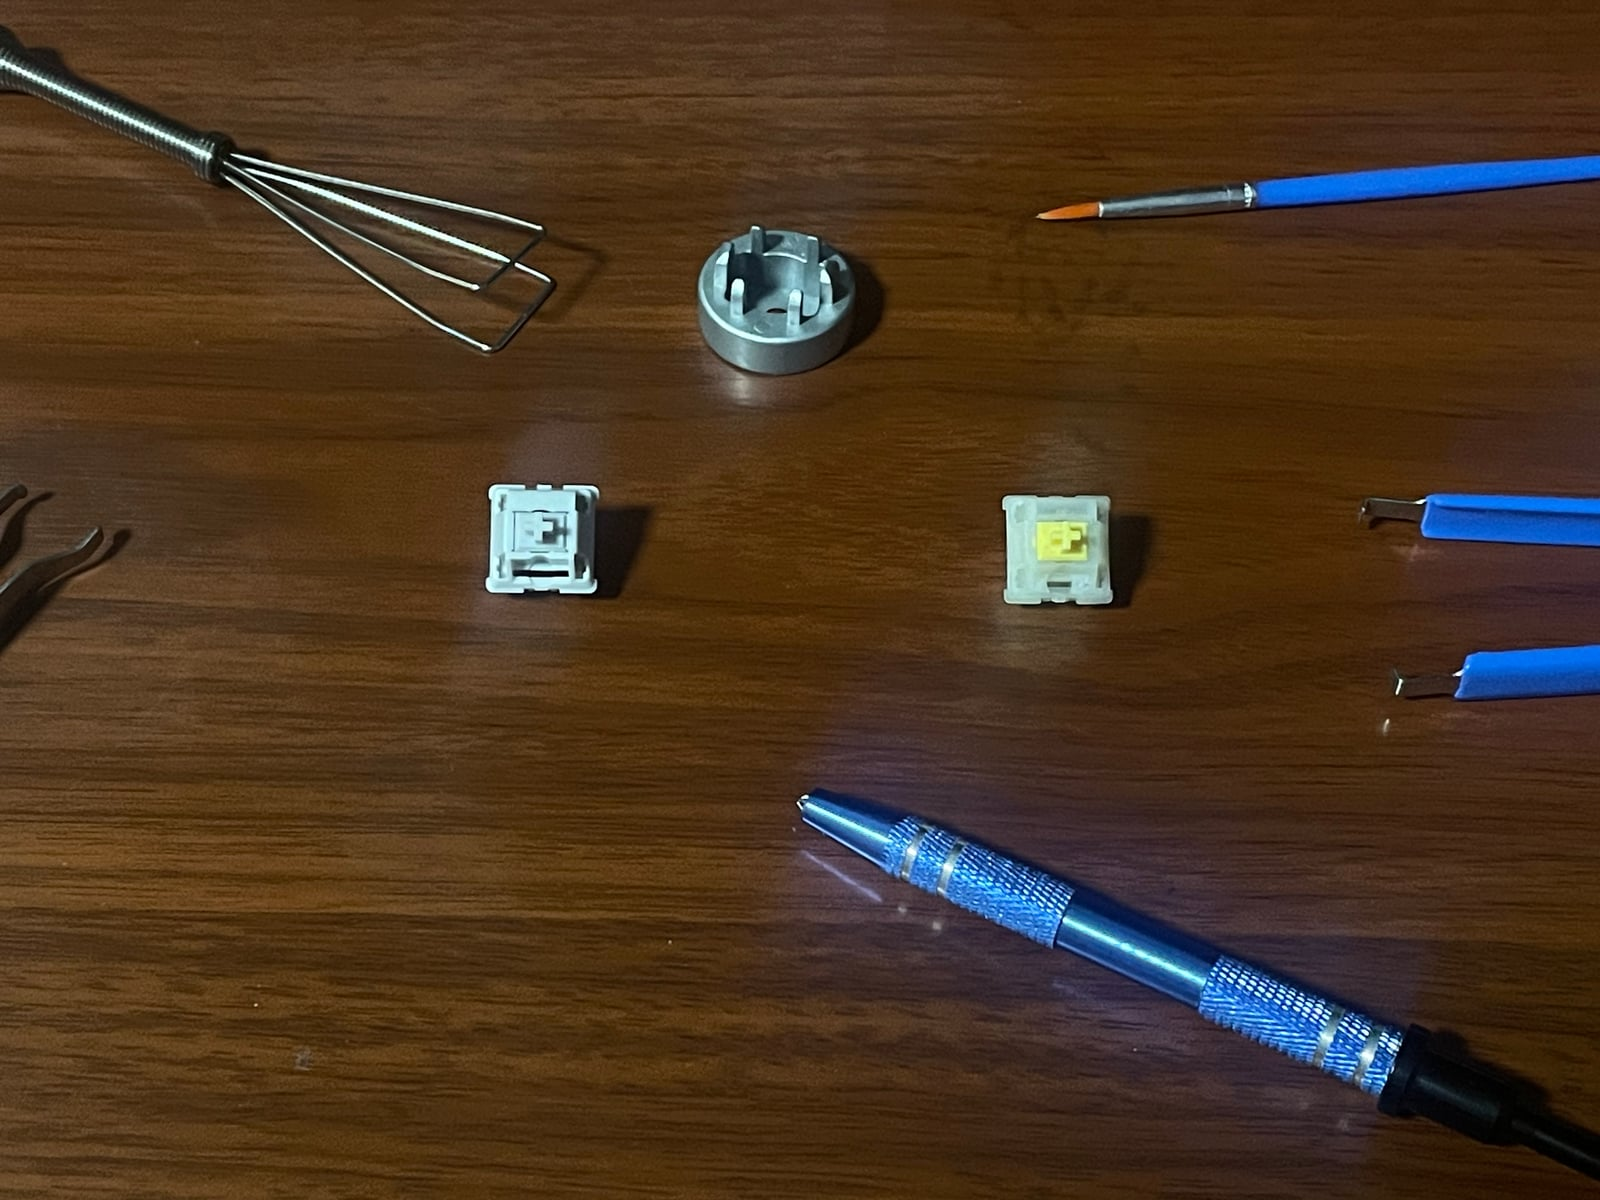
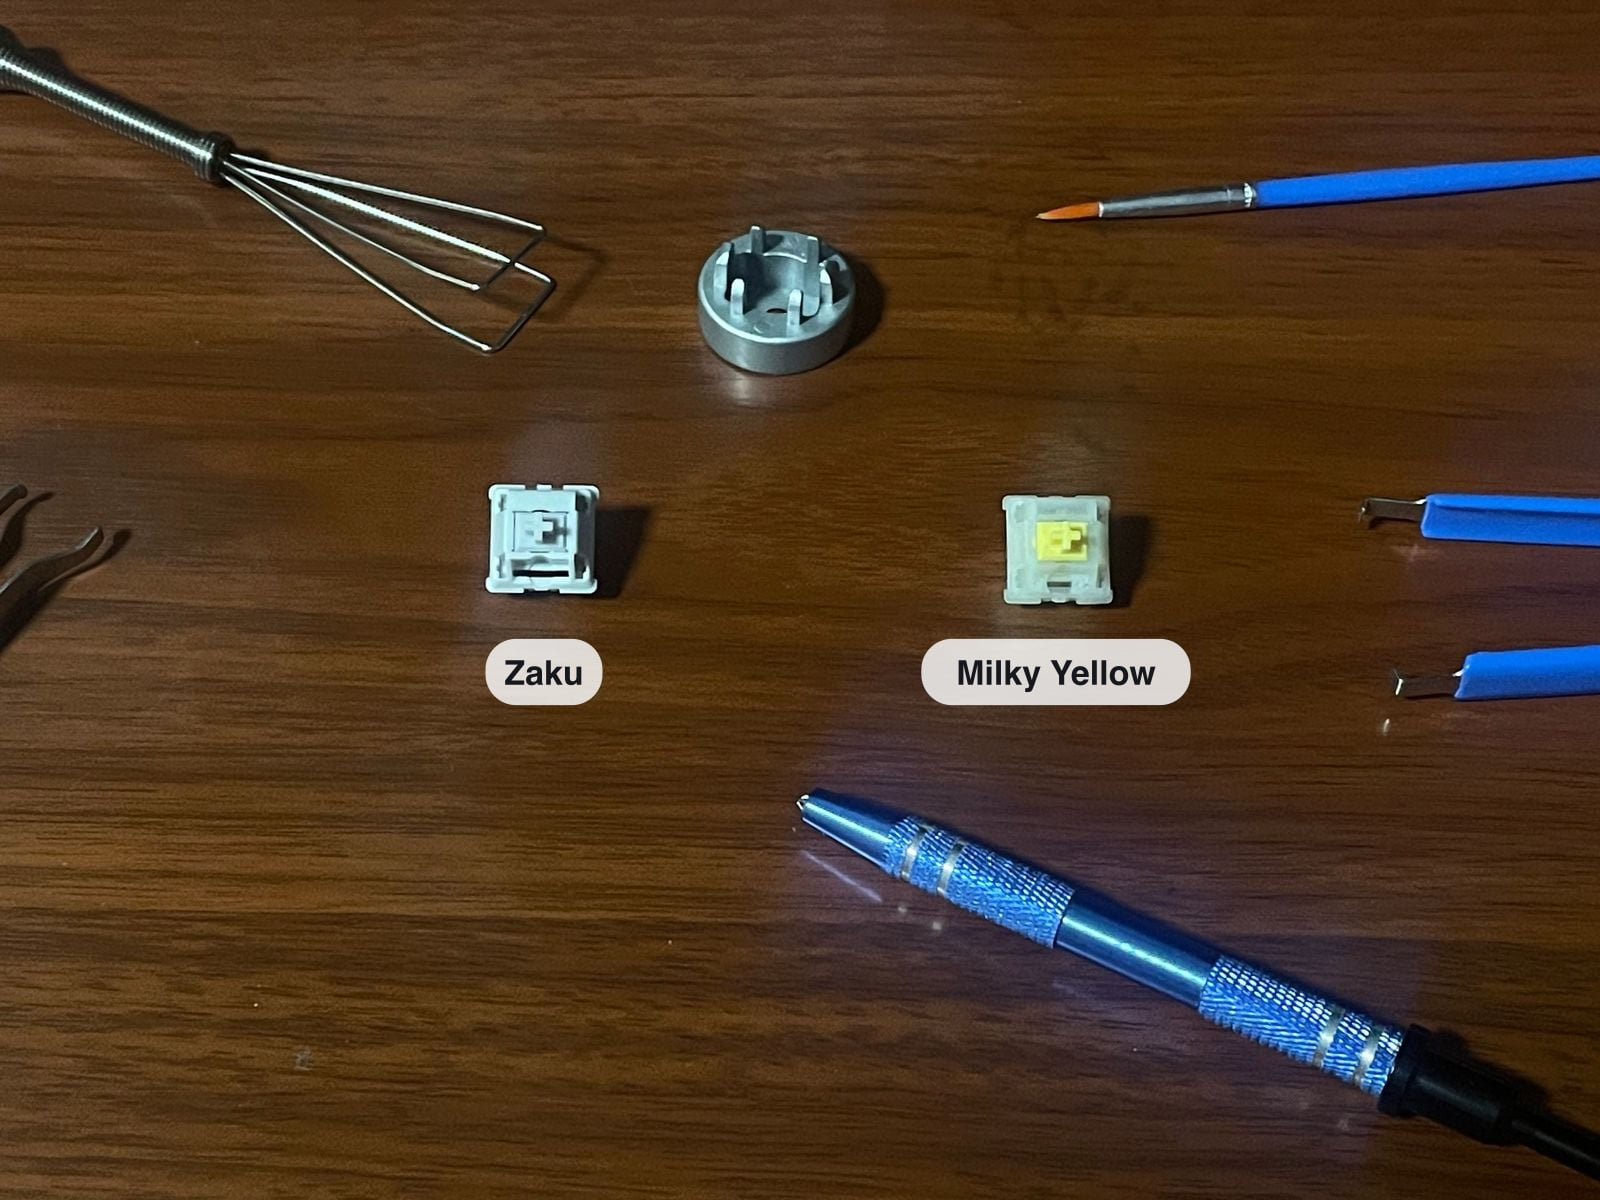
Zaku-Y: label parts on the photos and move explanations into captions
Drop the materials table and long paragraphs; each comparison photo is
labelled with the switch and material, and the kept part is marked.

Changed region(s): [[0.5625, 0.5242, 0.75, 0.5858], [0.2812, 0.5242, 0.375, 0.5858]]

diff --git a/src/content/projects/custom-keyboards.md b/src/content/projects/custom-keyboards.md
@@ -57,44 +57,25 @@ Stock switches rarely land exactly where a client wants, so I take them apart an
 
 #### Frankenswitch: the Zaku-Y
 
-The Zaku-Y is a Zaku (Tecsee) and a Gateron Milky Yellow combined into one switch.
+**Goal:** the deeper sound of a Gateron Milky Yellow with the firmer, snappier feel of a Zaku.
 
-**Goal:** the deeper, softer sound of the Milky Yellow with the firmer bottom-out and quicker return of the Zaku.
+![Two switches on a desk among switch-modding tools: a Zaku on the left and a Milky Yellow on the right](../../assets/projects/custom-keyboards/franken-01-donors.jpg "The two donor switches.")
 
-| Part | Zaku | Milky Yellow | Used in the Zaku-Y |
-| --- | --- | --- | --- |
-| Top housing | Polycarbonate (PC) | Nylon (PA66) | Milky Yellow |
-| Bottom housing | Nylon | Nylon (PA66) | Milky Yellow |
-| Stem | POM, longer centre pole | POM | Zaku |
-| Spring | Stainless, double-stage, 63.5 g bottom-out | Stainless, single-stage, 62 g bottom-out | Zaku |
+![Both switches disassembled in two rows: bottom housing, top housing, stem and spring](../../assets/projects/custom-keyboards/franken-02-teardown.jpg "Both apart: Zaku on top, Milky Yellow below.")
 
-![Two switches on a desk among switch-modding tools: a Zaku with a white stem on the left and a Milky Yellow with a yellow stem on the right](../../assets/projects/custom-keyboards/franken-01-donors.jpg "The donor switches: Zaku on the left, Milky Yellow on the right.")
+![Two top housings: a translucent milky nylon housing on the left and a white polycarbonate housing on the right](../../assets/projects/custom-keyboards/franken-03-housings.jpg "Housings: Milky Yellow. The housing rings when the stem hits it. Nylon is semi-crystalline and damps vibration, so it sounds lower than the Zaku's stiff, glassy polycarbonate. I kept both halves of the matched pair for a tighter fit.")
 
-![Both switches fully disassembled in two rows, each row showing bottom housing, top housing, stem and spring](../../assets/projects/custom-keyboards/franken-02-teardown.jpg "Both switches apart: Zaku on top, Milky Yellow below. Left to right: bottom housing, top housing, stem, spring.")
+![Two stems: a yellow POM stem on the left and a white POM stem with a longer centre pole on the right](../../assets/projects/custom-keyboards/franken-04-stems.jpg "Stem: Zaku. Both are low-friction POM, but the Zaku's longer pole bottoms out earlier for a shorter, firmer stop.")
 
-**Housings: Milky Yellow.** The housing is what rings when the stem hits it, so its material sets the pitch. The Zaku's top is polycarbonate, an amorphous, glassy plastic that is stiff and has little internal damping, so it rings bright. The Milky Yellow's top is PA66 nylon, which is semi-crystalline and absorbs a little moisture, so it damps vibration and sounds lower. I kept both Milky Yellow halves rather than mixing housings, because a matched pair from the same mould fits tighter and wobbles less.
+![Two springs: a shorter single-stage spring on the left and a longer double-stage spring on the right](../../assets/projects/custom-keyboards/franken-05-springs.jpg "Spring: Zaku. The stiffer second stage (63.5 g at the bottom) slows the stem before it bottoms out and speeds up the return.")
 
-![Two top housings side by side: a translucent milky housing on the left and a solid white housing on the right](../../assets/projects/custom-keyboards/franken-03-housings.jpg "Top housings: Milky Yellow nylon on the left (kept), Zaku polycarbonate on the right.")
-
-**Stem: Zaku.** Both stems are POM, which is slippery and wear-resistant, so either runs smoothly in nylon. The difference is length: the Zaku's longer centre pole bottoms out on the housing slightly earlier, giving shorter travel and a firm, defined stop. In a nylon housing that stop stays low-pitched instead of clacky.
-
-![Two switch stems side by side: a yellow stem on the left and a white stem with a longer centre pole on the right](../../assets/projects/custom-keyboards/franken-04-stems.jpg "Stems: Milky Yellow on the left, Zaku on the right (kept), with the longer pole.")
-
-**Spring: Zaku.** The Zaku's stainless double-stage spring is light at the start of the press, then stiffer near the bottom. The stiffer stage slows the stem before it hits the housing and stores more energy for the return stroke, so the key comes back up faster.
-
-![Two springs side by side: a shorter single-stage spring on the left and a longer double-stage spring on the right](../../assets/projects/custom-keyboards/franken-05-springs.jpg "Springs: Milky Yellow on the left, Zaku double-stage on the right (kept). The tighter coils mark where the rate changes.")
-
-**Film.** A thin film between the housing halves takes up the small gap between them, so the top can't wobble or rattle. A rattling housing sounds hollow and varies from key to key.
-
-![Placing a thin clear switch film onto the Milky Yellow bottom housing with tweezers](../../assets/projects/custom-keyboards/franken-06-film.jpg "Placing the film on the Milky Yellow bottom housing.")
+![Placing a thin clear switch film onto the Milky Yellow bottom housing with tweezers](../../assets/projects/custom-keyboards/franken-06-film.jpg "A film between the housings takes out the wobble that makes switches rattle.")
 ![The Milky Yellow bottom housing on a switch opener with the film seated around its edge](../../assets/projects/custom-keyboards/franken-07-film-seated.jpg "Film seated.")
 
-**Lube and assembly.** A thin coat of lube on the stem rails and spring smooths the travel and stops spring ping. Then the Zaku spring and stem go into the Milky Yellow bottom, and the Milky Yellow top closes over them.
-
-![The Zaku stem and spring being lowered into the Milky Yellow bottom housing on a switch opener](../../assets/projects/custom-keyboards/franken-08-stem-spring.jpg "Zaku stem and spring going into the Milky Yellow bottom.")
+![The Zaku stem and spring being lowered into the Milky Yellow bottom housing on a switch opener](../../assets/projects/custom-keyboards/franken-08-stem-spring.jpg "Lubed Zaku stem and spring into the Milky Yellow bottom.")
 ![The finished Zaku-Y on the opener with the Milky Yellow top housing closed over the Zaku stem](../../assets/projects/custom-keyboards/franken-09-finished.jpg "The finished Zaku-Y.")
 
-**Result:** the Milky Yellow's lower, softer sound, with the Zaku's firmer bottom-out and quicker return.
+**Result:** the Milky Yellow's lower, softer sound with the Zaku's firmer bottom-out and quicker return.
 
 ### Mounting
 
